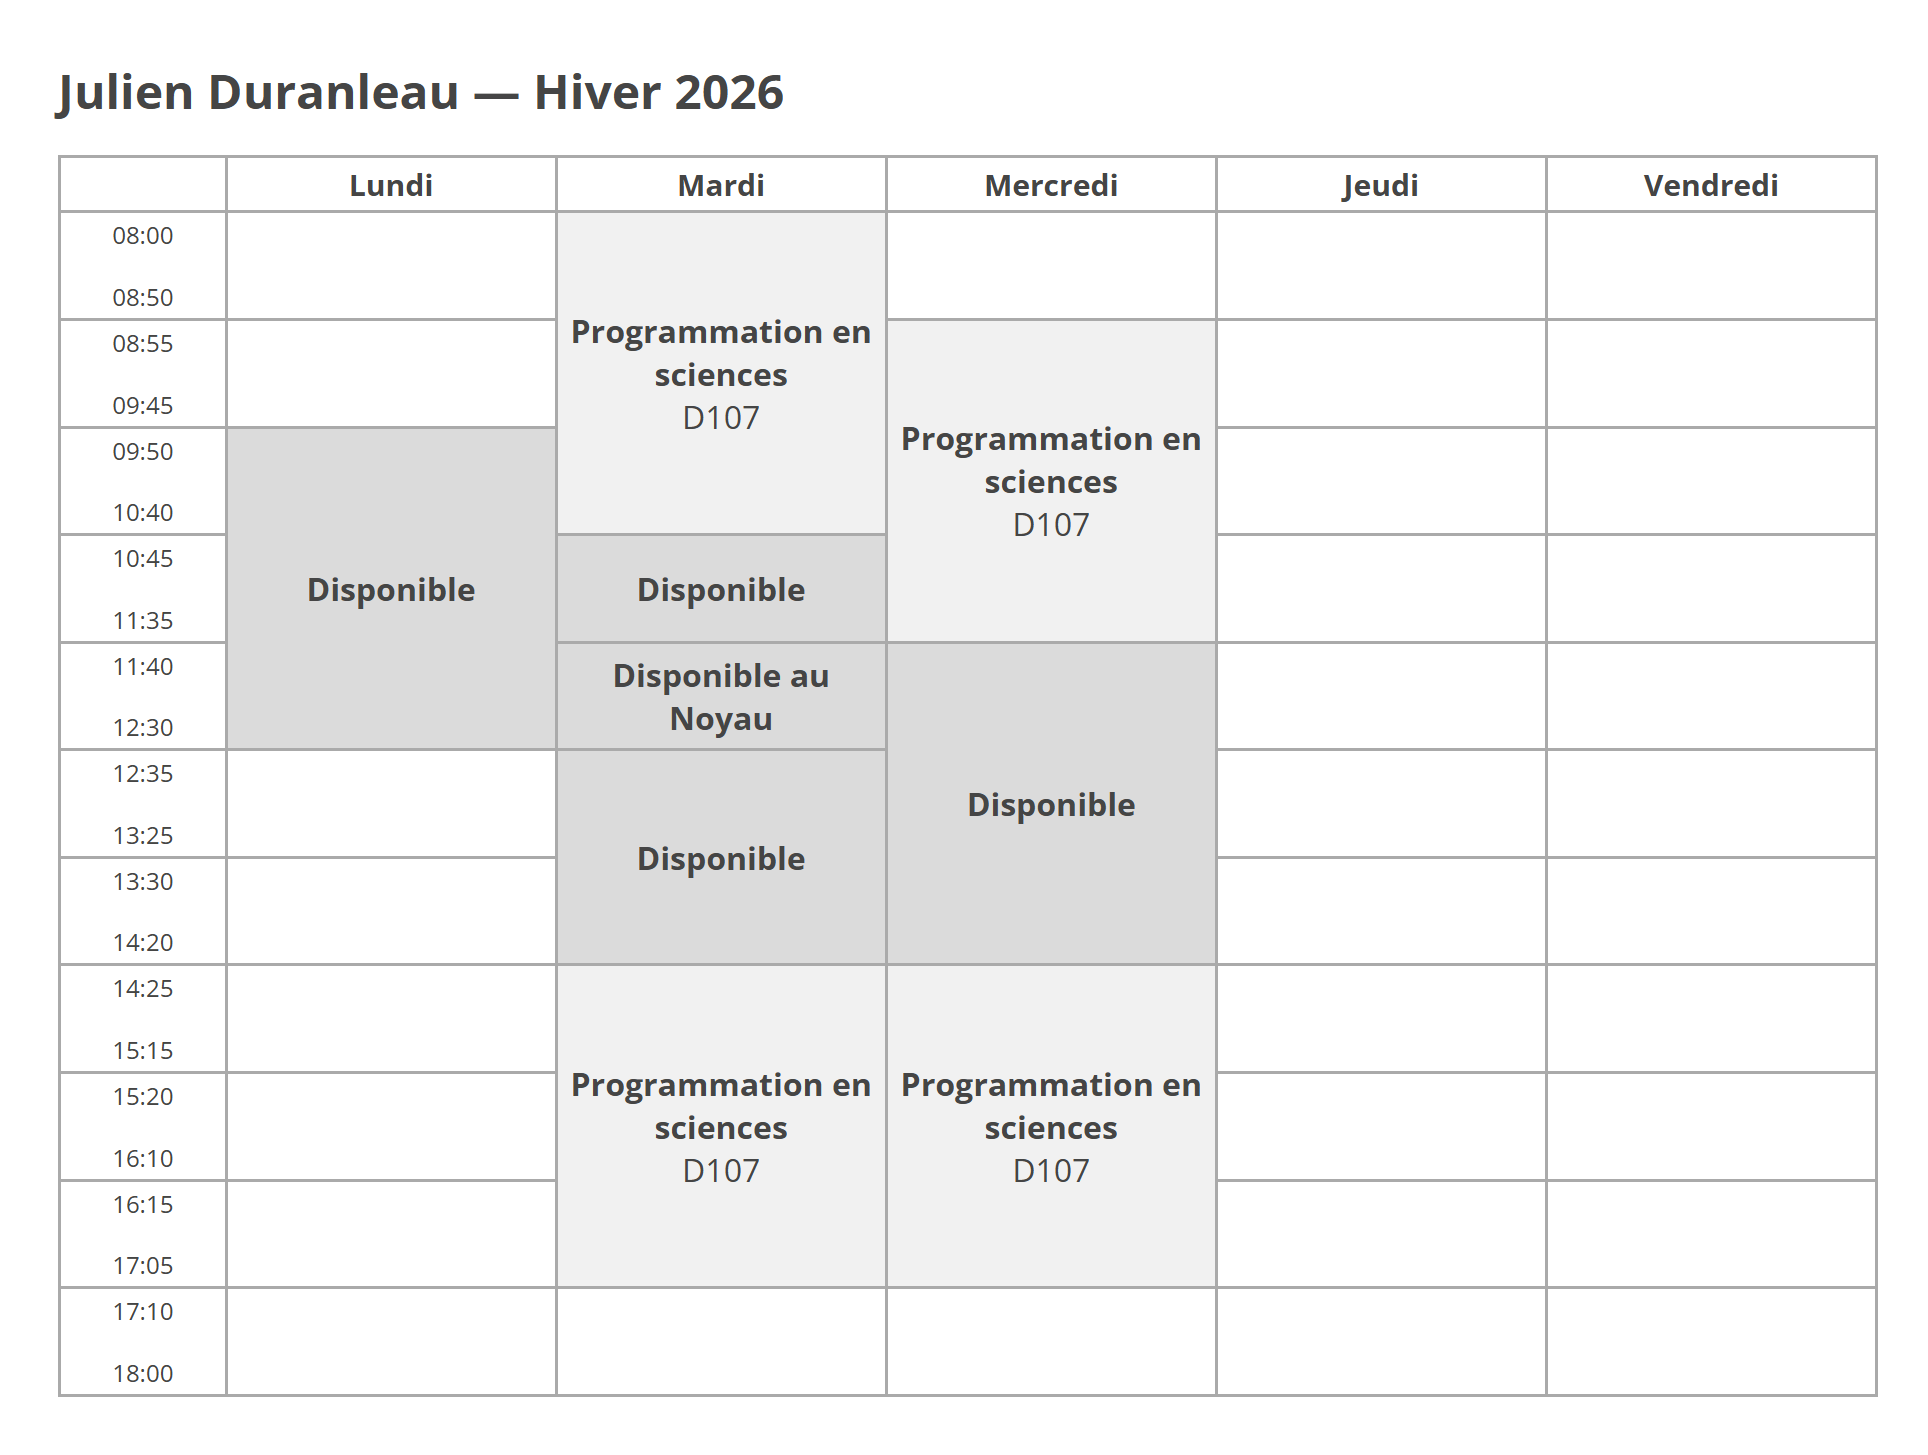
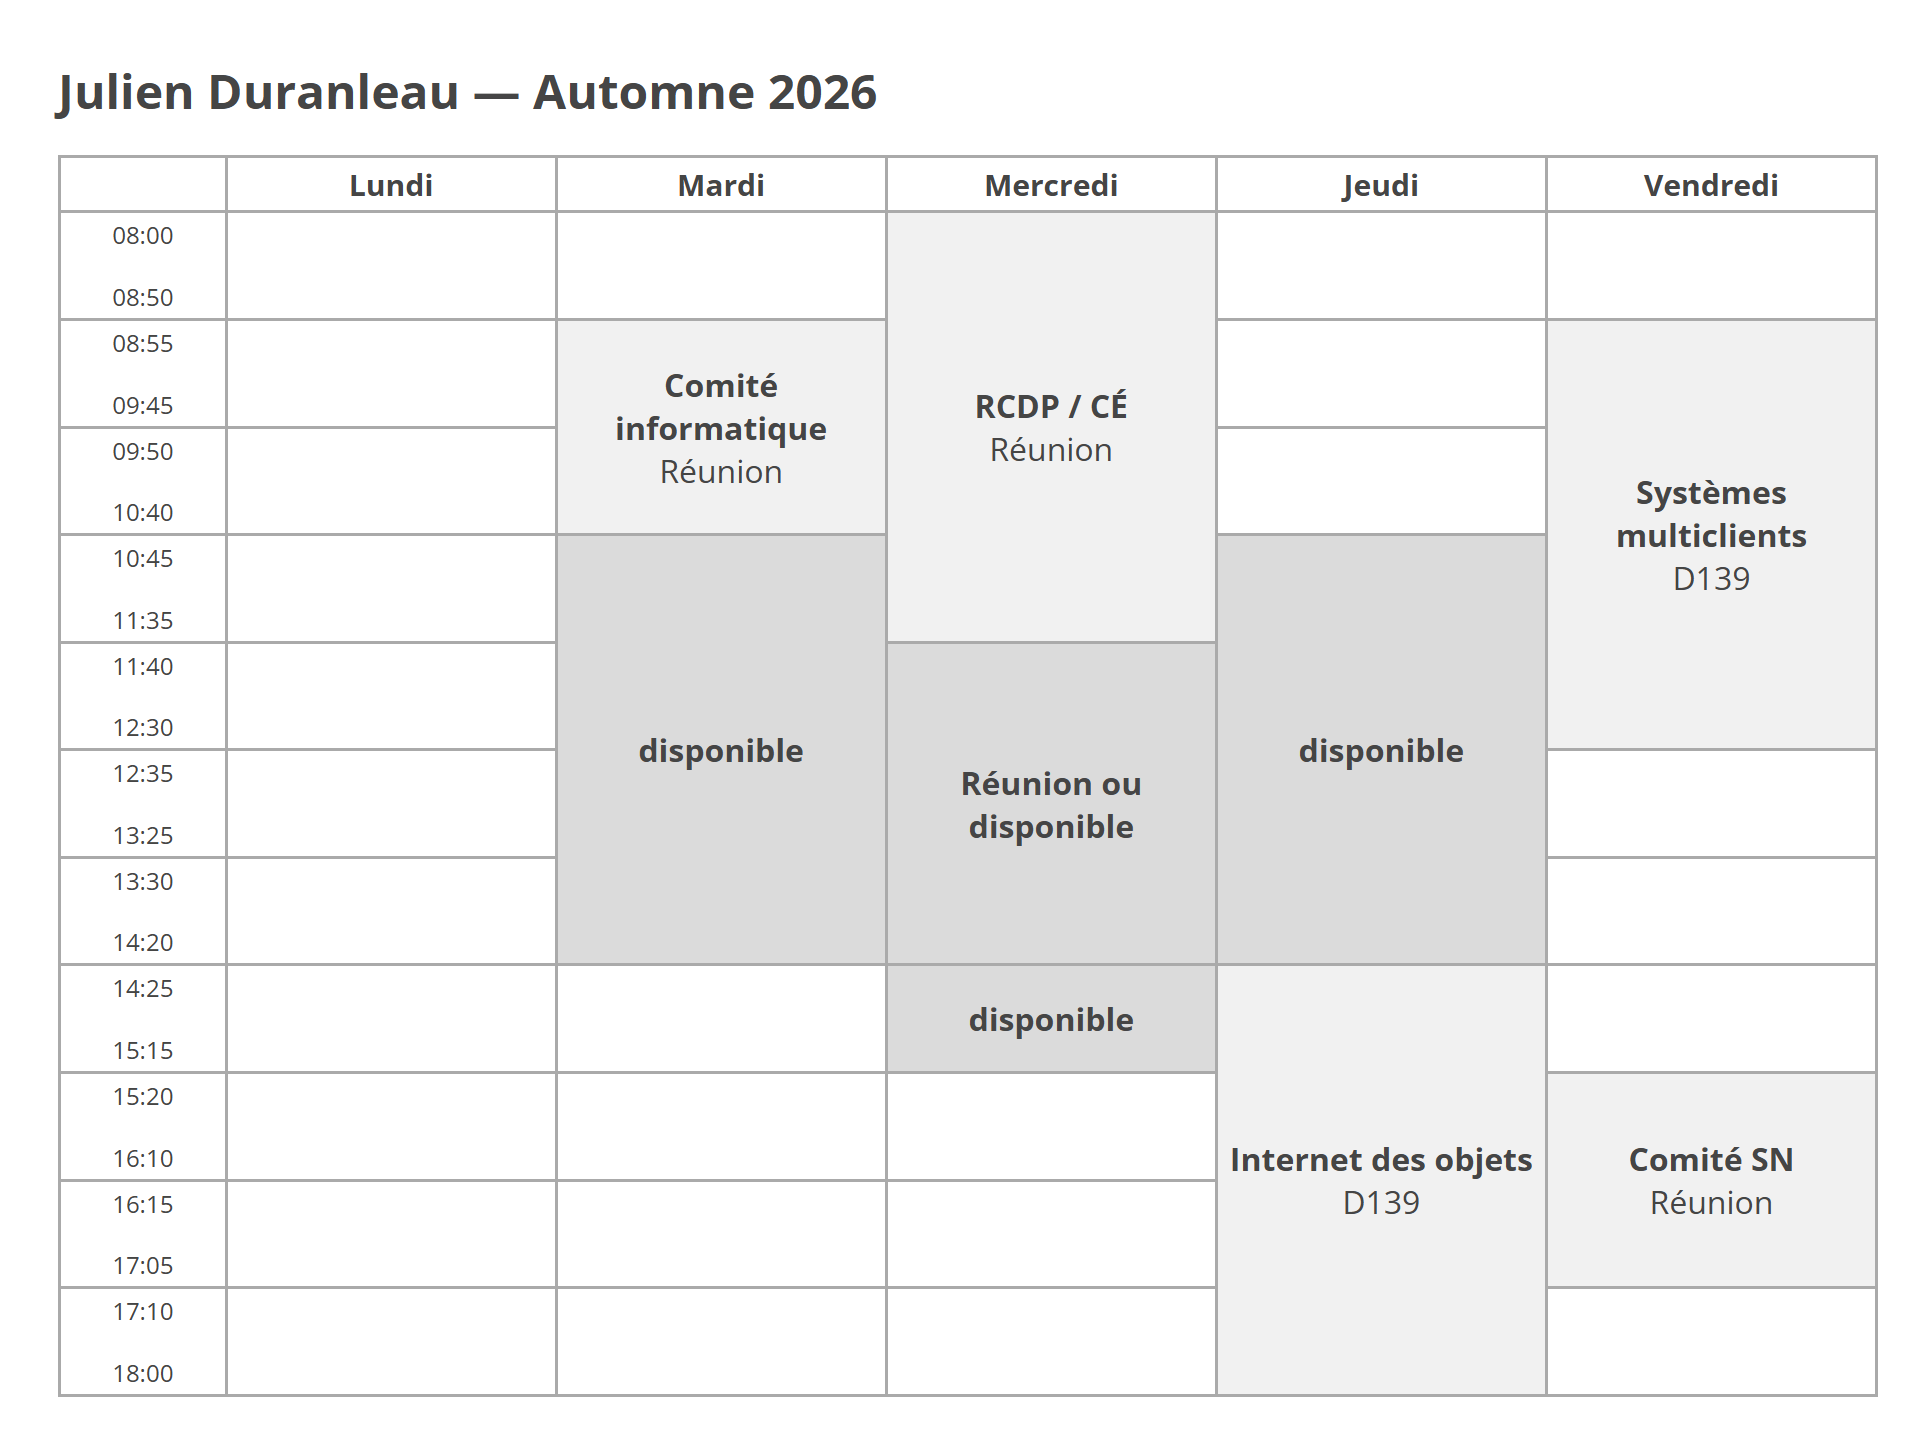
Horaire et mise en page

diff --git a/index.html b/index.html
@@ -7,30 +7,33 @@
         <style>
             body {
                 display: grid;
-                grid-template-columns: 50% 50%;
-                height: 100vh;
+                grid-template-columns: 1fr;
                 place-items: center;
+                font-family: system-ui;
             }
 
             a {
                 text-align: center;
-                font-size: 72px;
-                font-family: system-ui;
+                font-size: 32px;
+                width: 400px;
+
                 text-decoration: none;
-                border: 3px solid #5177b1;
+                border: 1px solid #b1b5bb;
                 color: #5177b1;
                 border-radius: 15px;
                 padding: 15px;
+                margin: 15px;
 
                 &:hover {
-                    background-color: #5177b1;
+                    background-color: #8a9cb6;
                     color: #fff;
                 }
             }
         </style>
     </head>
     <body>
-        <a href="cours/iot/">IOT</a>
-        <a href="cours/multiclients/">Multiclients</a>
+        <h1>Julien Duranleau</h1>
+        <a href="cours/iot/">Internet des objets</a>
+        <a href="cours/multiclients/">Systèmes multiclients</a>
     </body>
 </html>

diff --git a/cours/iot/1/exercices.html b/cours/iot/1/exercices.html
@@ -21,5 +21,5 @@
         <p>La lumière doit alors restée ouverte pendant 3 secondes après le dernier déplacement</p>
     </li>
     <li>Utiliser un "Sound Sensor" pour ouvrir les LEDs d'un LED Stick. Vous devrez utiliser la librairie "Adafruit_NeoPixel".</li>
-    <li>Créez un code qui converti un texte en code morse avec une LED.</li>
+    <li>Créez un code qui convertit un texte en code morse avec une LED.</li>
 </ol>

diff --git a/cours/multiclients/1/theorie.html b/cours/multiclients/1/theorie.html
@@ -36,7 +36,7 @@
 
 <div class="slide">
     <h1>Révision: CORS</h1>
-    <p>CORS: Cross-Origin Resource Sharing</p>
+    <p><strong>CORS</strong>: Cross-Origin Resource Sharing</p>
     <p>Pour un serveur, le CORS permet d'autoriser une application ou un site Web d'<strong>un parti tiers</strong> à <strong>accéder aux données</strong>.</p>
 </div>
 
